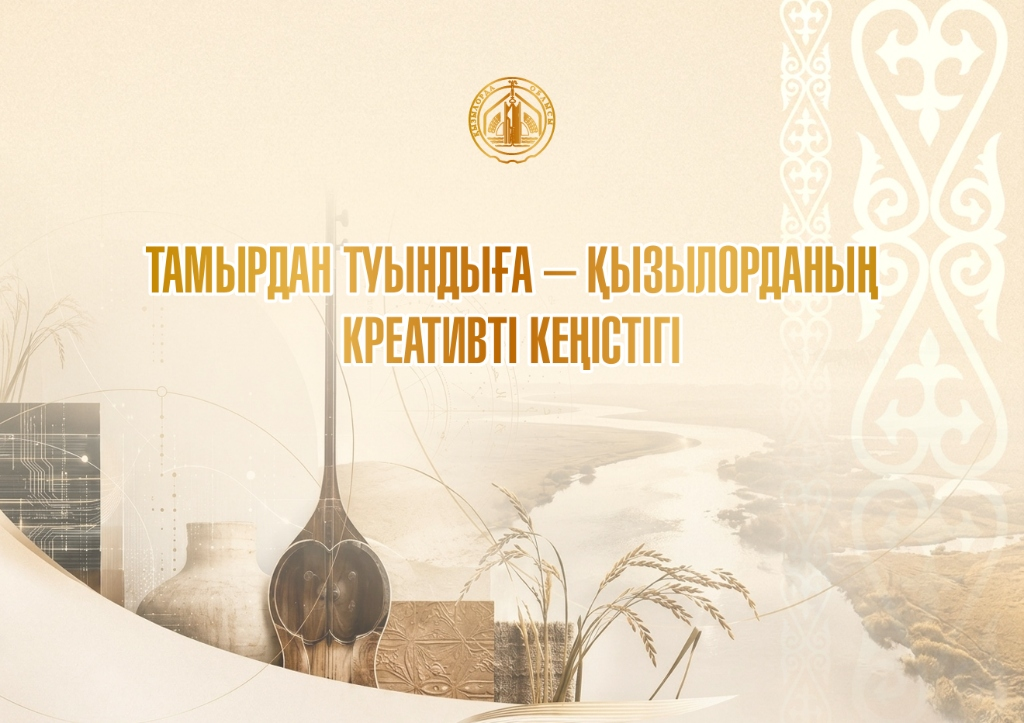
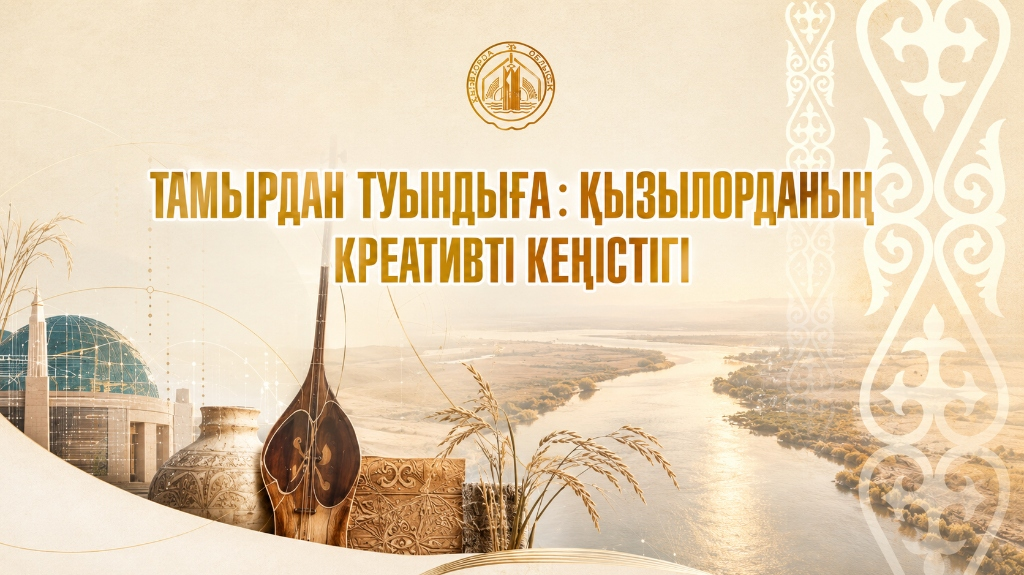
Update main page hero image

diff --git a/index.html b/index.html
@@ -364,7 +364,7 @@
         <!-- SECTION 1: HERO IMAGE -->
         <section id="hero-section" class="w-full relative bg-[#F7E9CE] pt-1.5 sm:pt-4">
             <div class="w-full max-w-[1500px] mx-auto relative px-1 sm:px-4">
-                <img id="heroImage" src="images/hero.jpg?v=20260910" alt="Creative Aimaq Hero Image" 
+                <img id="heroImage" src="images/hero.jpg?v=20260910_2" alt="Creative Aimaq Hero Image" 
                      class="w-full h-auto object-contain mx-auto rounded-md sm:rounded-lg shadow-md border border-[#C58F2C]/20 block">
             </div>
         </section>
